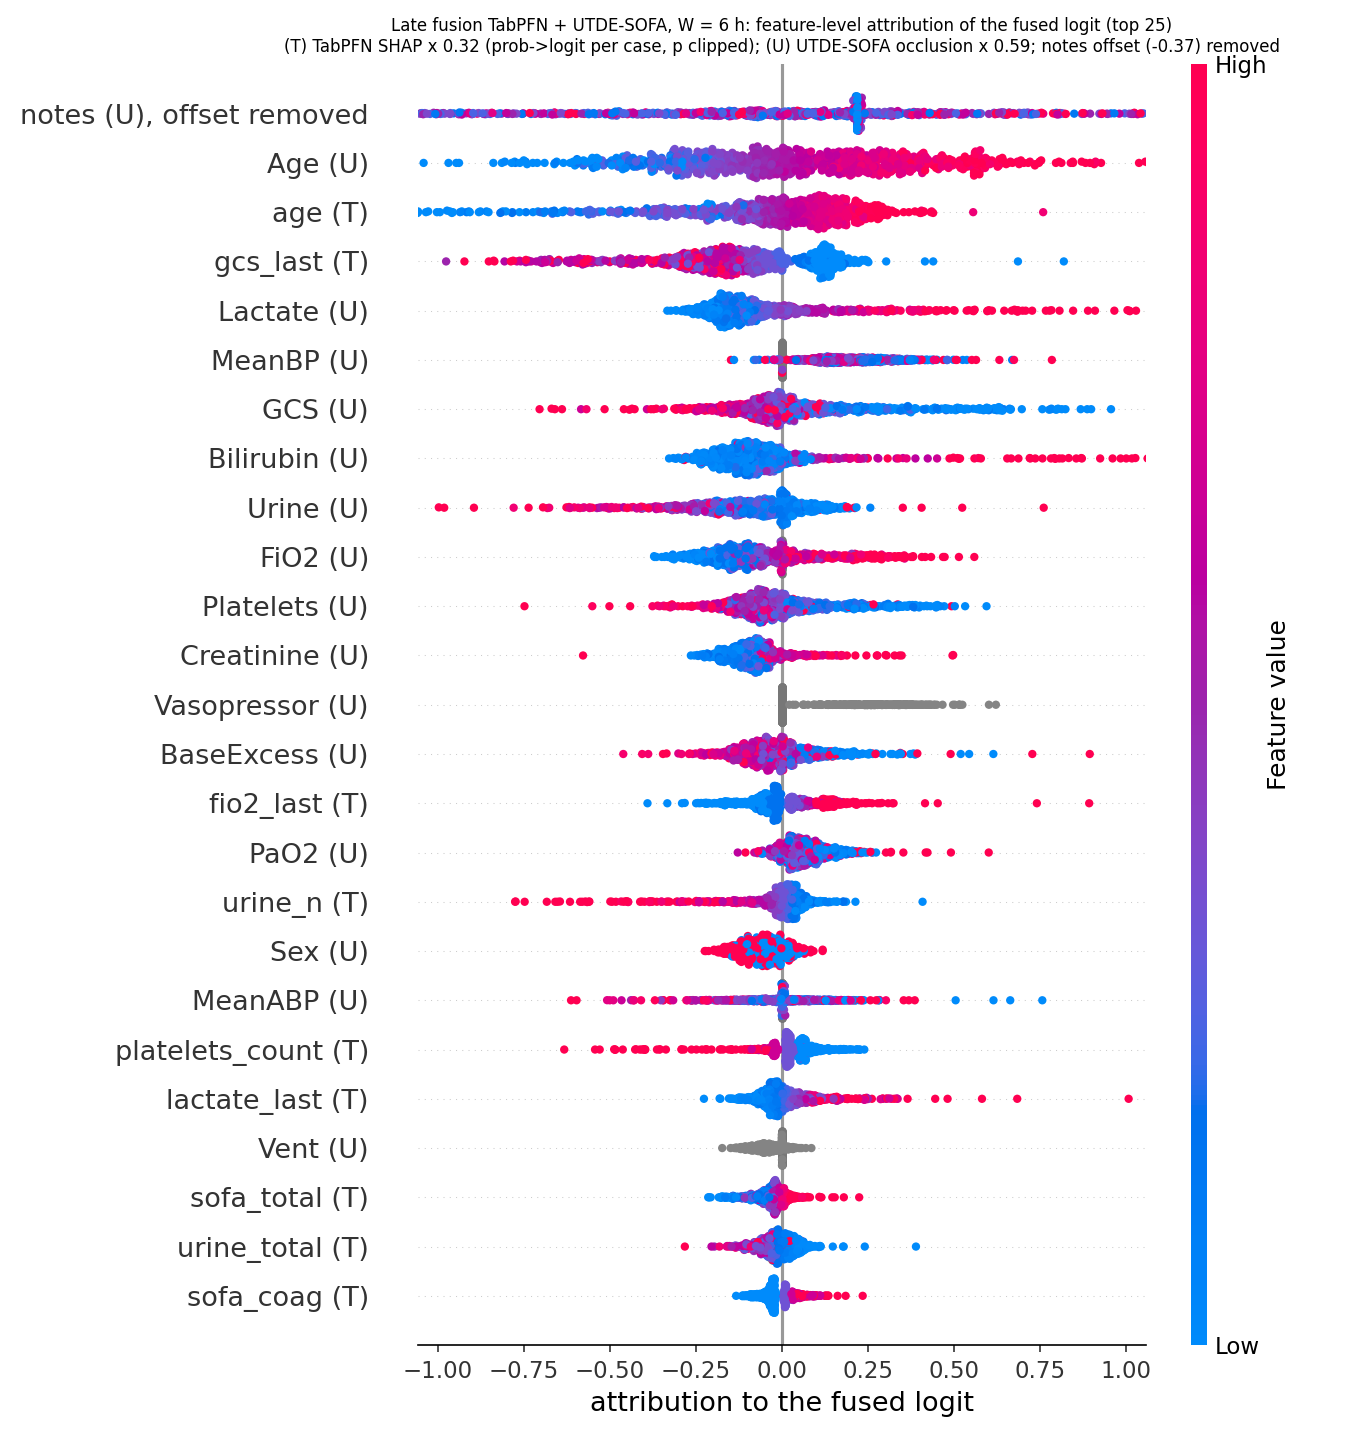
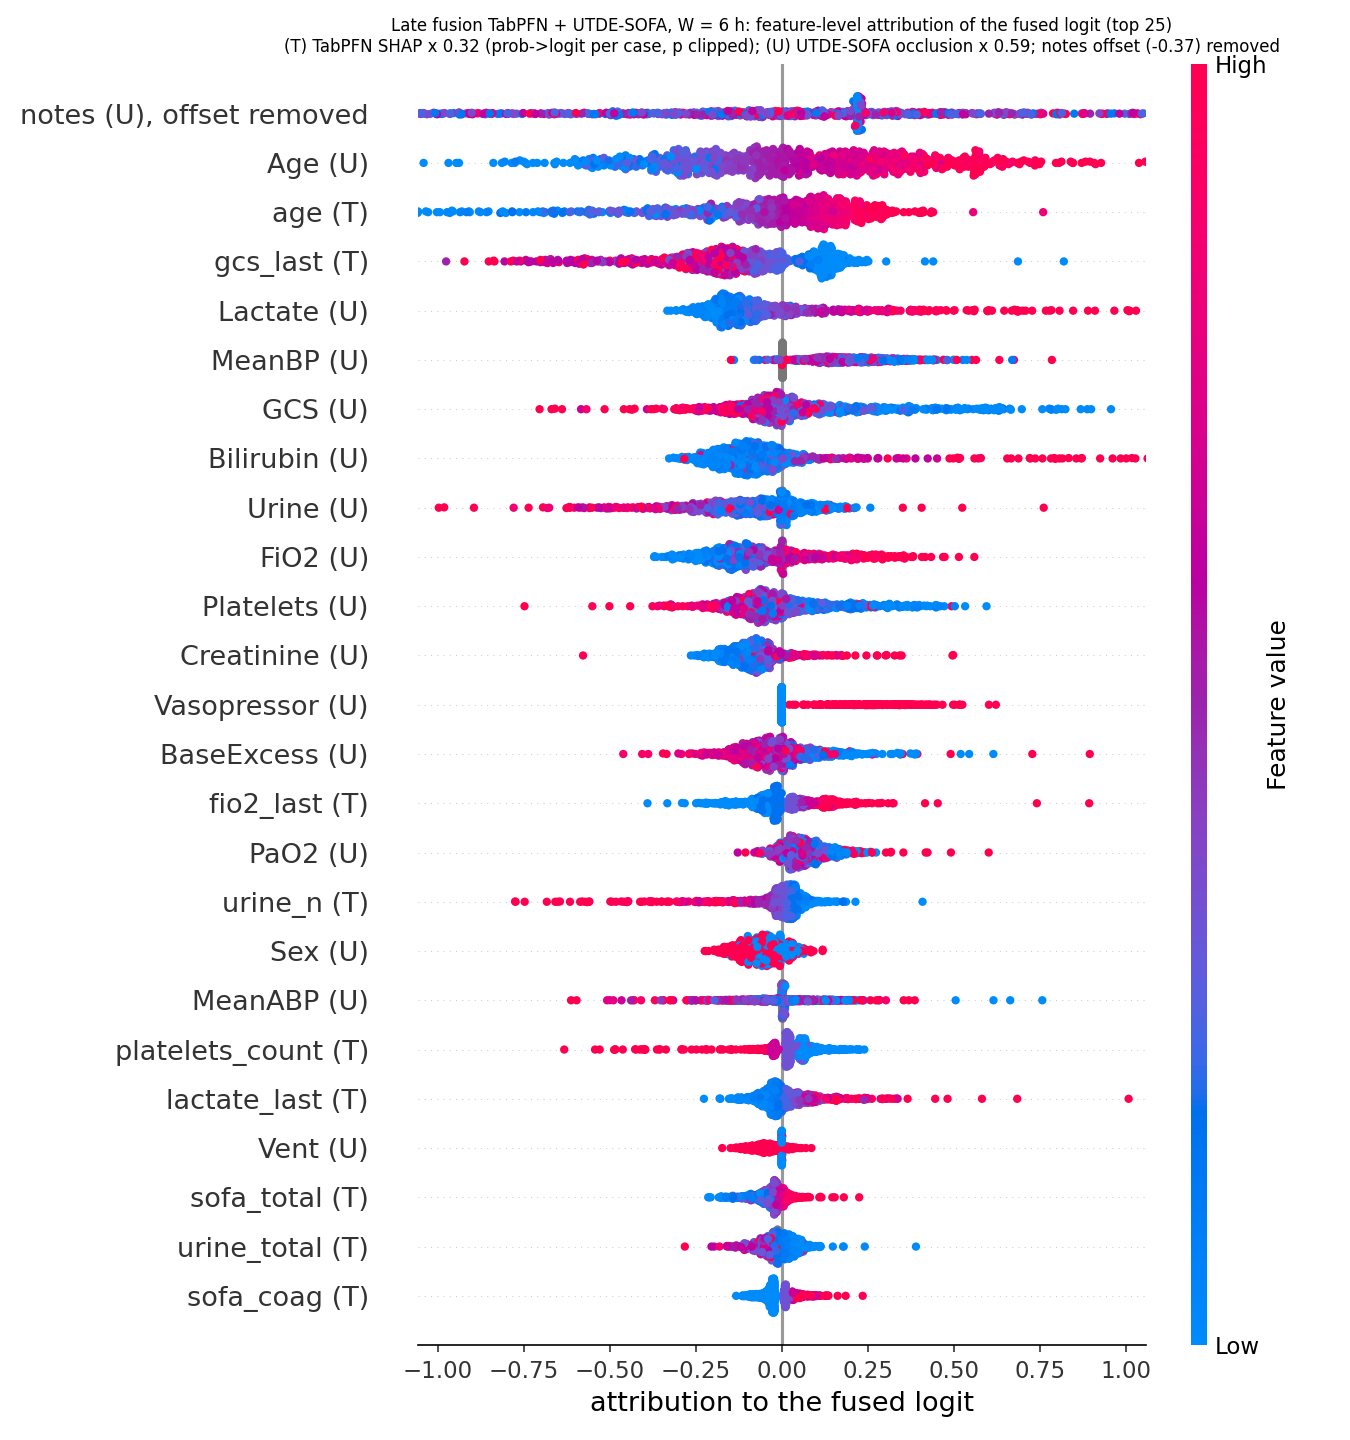
Unified beeswarms: colour the 0/1 channels (Vent, Vasopressor, Sex) by presence in the window
Claude-Session: https://claude.ai/code/session_01HeU3rVXtZxeXxp219tyGbe

Changed region(s): [[0.3111, 0.0625, 0.8089, 0.875]]

diff --git a/scripts/26_unified_shap.py b/scripts/26_unified_shap.py
@@ -61,15 +61,18 @@ def main():
     dl = pd.Series({c: np.abs(full - LG(u[f'drop_{c}'])).mean() for c in chans}).sort_values(ascending=False)
     da = pd.Series({c: auc(u['full']) - auc(u[f'drop_{c}']) for c in chans}).reindex(dl.index)
     md += ['| channel | mean abs Δlogit when occluded | AUROC drop |', '|---|---|---|'] + [f'| {c} | {dl[c]:.3f} | {da[c]:+.3f} |' for c in dl.index] + ['']
+    BINARY = {'Vent', 'Vasopressor', 'Sex'}                       # presence channels: colour = present in the window (1) or not (0)
     Xm = np.full((len(test), len(chans)), np.nan)
     for i, d in enumerate(test):
         v = np.asarray(d['irg_ts'], float); m = np.asarray(d['irg_ts_mask']) == 1
         for j, c in enumerate(chans):
             k = ch.index(c)
-            if m[:, k].any():
+            if c in BINARY:
+                Xm[i, j] = float(v[m[:, k], k].max()) if m[:, k].any() else 0.0
+            elif m[:, k].any():
                 Xm[i, j] = v[m[:, k], k].mean()
     Au = np.column_stack([full - LG(u[f'drop_{c}']) for c in chans])
-    beeswarm(Au, Xm, chans, f'UTDE-SOFA W = {W} h: channel occlusion attribution (logit full − logit without channel); colour = channel mean (z) / value', OUT / f'utde_sofa_beeswarm_W{W}.png', 'attribution to the UTDE-SOFA logit')
+    beeswarm(Au, Xm, chans, f'UTDE-SOFA W = {W} h: channel occlusion attribution (logit full − logit without channel); colour = channel mean (z); 0/1 channels: present in window', OUT / f'utde_sofa_beeswarm_W{W}.png', 'attribution to the UTDE-SOFA logit')
 
     # ---- 3. late fusion TabPFN + UTDE-SOFA: stacker SHAP + feature-level beeswarm
     s_te, s_va = utde_run('_sofavars', W)
